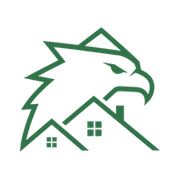
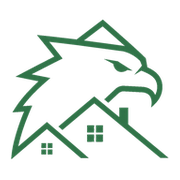
The eagle sits a little larger in its tile
Owner request: slightly bigger, only slightly. Padding cut roughly in half — 10%→5%
on the PNGs, 8%→3.5% on the .ico — so the mark grows about 12% and keeps visible
breathing room at the edges.

Token bumped to ?v=4, which is what it is for.

All sizes are regenerated from assets/images/ezhalah-logo.png through the same
trim-to-ink-bbox then re-pad step, so the .ico, the PNGs and the apple-touch icon stay
optically identical instead of drifting apart.

Changed region(s): [[0.0556, 0.1111, 0.9444, 0.8889]]

diff --git a/src/app/+html.tsx b/src/app/+html.tsx
@@ -32,7 +32,7 @@ export default function Root({ children }: PropsWithChildren) {
                 404, and keeps showing whatever it remembered — which is why the old Expo chevron
                 survived a favicon replacement that WAS live and correct on the server.
               • Modern browsers prefer a PNG at a known size over an .ico when both are offered.
-            ?v=3 is deliberate. A browser's favicon store is not the HTTP cache: it is keyed by URL
+            ?v=4 is deliberate. A browser's favicon store is not the HTTP cache: it is keyed by URL
             and ignores revalidation, so replacing the bytes at an unchanged path can leave a stale
             icon in the tab and the address bar indefinitely. Changing the URL is the only reliable
             way to retire an old icon. BUMP THIS when an icon changes — that is the whole point of it.
@@ -42,12 +42,12 @@ export default function Root({ children }: PropsWithChildren) {
             Safari, which keys its icon store by URL, then kept its pre-existing entry for that exact
             unchanged URL and went on drawing the old Expo chevron while every versioned link beside
             it already served the eagle. One icon source, one URL, always versioned. */}
-        <link rel="icon" href="/favicon.ico?v=3" sizes="any" />
-        <link rel="icon" type="image/png" sizes="32x32" href="/icon-32.png?v=3" />
-        <link rel="icon" type="image/png" sizes="192x192" href="/icon-192.png?v=3" />
+        <link rel="icon" href="/favicon.ico?v=4" sizes="any" />
+        <link rel="icon" type="image/png" sizes="32x32" href="/icon-32.png?v=4" />
+        <link rel="icon" type="image/png" sizes="192x192" href="/icon-192.png?v=4" />
         {/* Opaque on purpose: iOS composites this on BLACK and applies its own corner radius, so a
             transparent or pre-rounded source shows black corners on the home screen. */}
-        <link rel="apple-touch-icon" sizes="180x180" href="/apple-touch-icon.png?v=3" />
+        <link rel="apple-touch-icon" sizes="180x180" href="/apple-touch-icon.png?v=4" />
         {/* FULL-APP THEME (owner 2026-08-28): both palettes as CSS custom properties — light on
             :root, dark on data-theme="dark" AND on the OS preference when no explicit choice is
             stored. Every entry of tokens.ts `colors` is a var() over these, so the whole app
